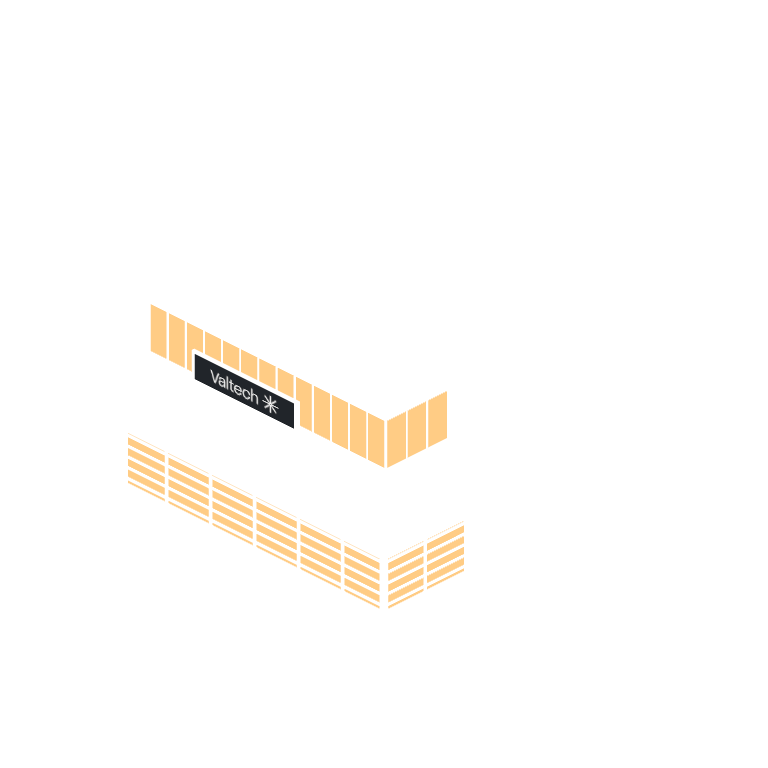
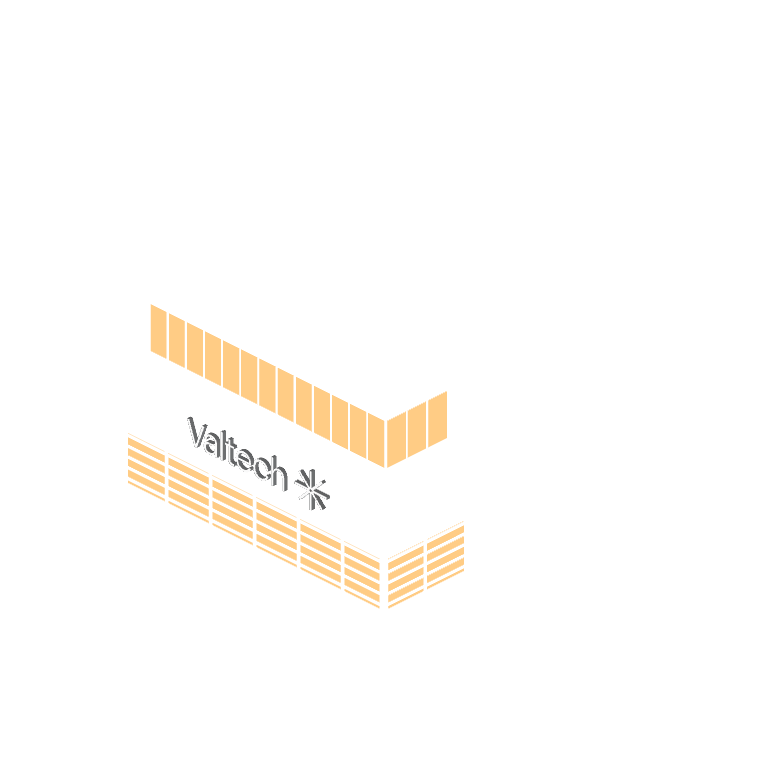
City: Valtech names itself headquarters style, big lit letters on the facade (POR-54)
Replaces the round 1 rooftop board: the logo as white 3D letters on the top
louvre floor of the street side, lit in the night window layer.

Claude-Session: https://claude.ai/code/session_01FAhPhZjp2ccZn8zKvm5zMF

Changed region(s): [[0.25, 0.5312, 0.4375, 0.6562], [0.25, 0.4375, 0.4062, 0.5625]]

diff --git a/lib/city/models/valtechOfficeDetail.ts b/lib/city/models/valtechOfficeDetail.ts
@@ -7,11 +7,12 @@
 //   *-screen-<n>-display  a downscaled case image (public/game/pogicity/Building/landmark/valtech-office-screen-<n>.png)
 //   *-planter-leaf-*, *-planter-crown-*  a low-poly sphere (8 x 5) instead of the factory's 16 x 12: flat leaves at
 //   sprite size do not need more, and the plant drops from about 4,400 to about 1,000 triangles
-//   sign-roof  a rooftop sign on the south parapet (POR-54, 2026-10-23): the Valtech logo in white on a dark board, standing
-//   in front of the glass top floor. The building names itself, so the city needs no floating badge. The face is unlit
-//   (selfLit), so the night window pass draws it as it is: a lit box sign
+//   sign-hq  the name on the building (POR-54, 2026-10-23): the logo as big white 3D letters on the top louvre floor of the
+//   street side, headquarters style. The building names itself, so the city needs no floating badge. The faces are unlit
+//   (selfLit), so the night window pass draws them as they are: lit letters
 // The case images load asynchronously; the entrance lab waits for __labPending to reach 0 before it renders.
 import * as THREE from 'three';
+import { SVGLoader } from 'three/examples/jsm/loaders/SVGLoader.js';
 
 const SCREENS: Record<string, string> = {
   'int-desk-screen-1-display': '/game/pogicity/Building/landmark/valtech-office-screen-1.png',
@@ -185,100 +186,55 @@ function lowPolyEllipsoid(mesh: THREE.Mesh): void {
   old.dispose();
 }
 
-// The rooftop sign: 2.4 x 0.56 wu, its face 0.94 of that; the logo is the city badge's file, trimmed to its ink and drawn white
-const SIGN = { w: 2.4, h: 0.56, d: 0.06, x: 0.3, face: 0.94 };
-const SIGN_BOARD = '#22262b';
+// The name on the building (POR-54, 2026-10-23), headquarters style: the logo as big white 3D letters on the top
+// louvre floor of the street side, standing a little off the slats, like a company HQ. The letters are the city badge's
+// svg (its ink paths) extruded; the faces are unlit (selfLit), so the night window pass draws them as lit letters.
+const HQ = { height: 0.72, depth: 0.08, standoff: 0.05, x: 0.2, y: 4.54 };
+const LOGO_SVG = '/game/pogicity/Building/logos/valtech-office.svg';
 
-function signFaceTexture(): THREE.Texture {
-  const c = document.createElement('canvas');
-  c.width = 1024;
-  c.height = Math.round((1024 * SIGN.h) / SIGN.w);
-  const g = c.getContext('2d')!;
-  g.fillStyle = SIGN_BOARD;
-  g.fillRect(0, 0, c.width, c.height);
-  const t = new THREE.CanvasTexture(c);
-  t.colorSpace = THREE.SRGBColorSpace;
-  t.anisotropy = 8;
-  const lab = globalThis as LabGlobal;
-  lab.__labPending = (lab.__labPending ?? 0) + 1;
-  const done = () => { lab.__labPending = Math.max(0, (lab.__labPending ?? 1) - 1); };
-  const img = new Image();
-  img.onload = () => {
-    // the svg is square with the wordmark in the middle: draw it big, find the ink, then draw only the ink, white
-    const src = document.createElement('canvas');
-    src.width = src.height = 1024;
-    const sg = src.getContext('2d', { willReadFrequently: true })!;
-    sg.drawImage(img, 0, 0, 1024, 1024);
-    const { data } = sg.getImageData(0, 0, 1024, 1024);
-    let x0 = 1024, y0 = 1024, x1 = -1, y1 = -1;
-    for (let y = 0; y < 1024; y++) {
-      for (let x = 0; x < 1024; x++) {
-        const i = (y * 1024 + x) * 4;
-        if (data[i + 3] < 128 || data[i] > 128) continue;   // dark, opaque pixels are the ink
-        if (x < x0) x0 = x;
-        if (x > x1) x1 = x;
-        if (y < y0) y0 = y;
-        if (y > y1) y1 = y;
-      }
-    }
-    if (x1 > x0) {
-      const ink = document.createElement('canvas');
-      ink.width = x1 - x0 + 1;
-      ink.height = y1 - y0 + 1;
-      const ig = ink.getContext('2d')!;
-      ig.drawImage(src, x0, y0, ink.width, ink.height, 0, 0, ink.width, ink.height);
-      // keep the ink's shape, paint it white: the darker a pixel, the more opaque (the svg's white background turns clear)
-      const id = ig.getImageData(0, 0, ink.width, ink.height);
-      for (let i = 0; i < id.data.length; i += 4) {
-        const dark = 255 - Math.min(id.data[i], id.data[i + 1], id.data[i + 2]);
-        id.data[i] = id.data[i + 1] = id.data[i + 2] = 255;
-        id.data[i + 3] = Math.round((dark * id.data[i + 3]) / 255);
-      }
-      ig.putImageData(id, 0, 0);
-      const h = c.height * 0.66, w = (ink.width / ink.height) * h;
-      const scale = Math.min(1, (c.width * 0.86) / w);
-      g.drawImage(ink, (c.width - w * scale) / 2, (c.height - h * scale) / 2, w * scale, h * scale);
-      t.needsUpdate = true;
-    }
-    done();
-  };
-  img.onerror = done;
-  img.src = '/game/pogicity/Building/logos/valtech-office.svg';
-  return t;
-}
-
-function addRoofSign(model: THREE.Object3D, meshes: Record<string, THREE.Mesh>): void {
-  const parapet = meshes['parapet-S'];
-  const parent = parapet?.parent;
-  if (!parapet || !parent) return;
-  // parapet-S is a box scaled to its size: its top and front face give the sign's foot and plane
-  const top = parapet.position.y + parapet.scale.y / 2;
-  const front = parapet.position.z + parapet.scale.z / 2;
+function addHqLetters(model: THREE.Object3D, meshes: Record<string, THREE.Mesh>): void {
+  // the first slat of the top louvre band of the south face: the letters stand off its front
+  const slat = meshes['louvre-S-3-slat-1'];
+  if (!slat) return;
+  model.updateMatrixWorld(true);
+  slat.geometry.computeBoundingBox();
+  const front = slat.geometry.boundingBox!.clone().applyMatrix4(slat.matrixWorld).max.z;
+  // read synchronously, so the letters are in the model when the entrance lab records its meshes
+  const xhr = new XMLHttpRequest();
+  xhr.open('GET', LOGO_SVG, false);
+  xhr.send();
+  const shapes: THREE.Shape[] = [];
+  for (const path of new SVGLoader().parse(xhr.responseText).paths) {
+    const fill = path.userData?.style?.fill;
+    if (!fill || fill === 'none' || /^(white|#fff|#ffffff)$/i.test(fill)) continue;   // the svg's white square
+    shapes.push(...SVGLoader.createShapes(path));
+  }
+  const geo = new THREE.ExtrudeGeometry(shapes, { depth: 1, bevelEnabled: false, curveSegments: 6 });
+  geo.computeBoundingBox();
+  const b = geo.boundingBox!;
+  const s = HQ.height / (b.max.y - b.min.y);
+  geo.translate(-(b.min.x + b.max.x) / 2, -(b.min.y + b.max.y) / 2, -1);
+  geo.scale(s, -s, HQ.depth);   // svg y points down; the flip turns the faces inside out, so both materials are double sided
+  const letters = new THREE.Mesh(geo, [
+    new THREE.MeshBasicMaterial({ color: new THREE.Color(0.95, 0.95, 0.95), side: THREE.DoubleSide }),
+    new THREE.MeshStandardMaterial({ color: '#cfd1d4', roughness: 0.5, side: THREE.DoubleSide }),
+  ]);
+  letters.castShadow = letters.receiveShadow = true;
+  letters.userData.sculptComponent = { id: 'sign-hq-face' };
+  letters.userData.selfLit = true;
   const group = new THREE.Group();
-  group.name = 'sign-roof';
-  group.position.set(SIGN.x, top + SIGN.h / 2, front - SIGN.d / 2);
-  const board = new THREE.Mesh(
-    new THREE.BoxGeometry(SIGN.w, SIGN.h, SIGN.d),
-    new THREE.MeshStandardMaterial({ color: SIGN_BOARD, roughness: 0.8, metalness: 0.1 }),
-  );
-  board.userData.sculptComponent = { id: 'sign-roof-board' };
-  const face = new THREE.Mesh(
-    new THREE.PlaneGeometry(SIGN.w * SIGN.face, SIGN.h * 0.84),
-    new THREE.MeshBasicMaterial({ map: signFaceTexture(), color: new THREE.Color(0.94, 0.94, 0.94) }),
-  );
-  face.position.z = SIGN.d / 2 + 0.002;
-  face.userData.sculptComponent = { id: 'sign-roof-face' };
-  face.userData.selfLit = true;
-  group.add(board, face);
-  parent.add(group);
+  group.name = 'sign-hq';
+  group.position.set(HQ.x, HQ.y, front + HQ.depth + HQ.standoff);
+  group.add(letters);
+  model.add(group);   // model space (the model sits at the origin when it is detailed)
   const nodes: Record<string, THREE.Object3D> | undefined = model.userData.sculptRuntime?.nodes;
-  if (nodes) nodes['sign-roof'] = group;
+  if (nodes) nodes['sign-hq'] = group;
 }
 
 export function applyValtechOfficeDetail(model: THREE.Object3D): void {
   if (typeof document === 'undefined') return;
   const meshes: Record<string, THREE.Mesh> = model.userData.sculptRuntime?.meshes ?? {};
-  addRoofSign(model, meshes);
+  addHqLetters(model, meshes);
   for (const [id, mesh] of Object.entries(meshes)) {
     const s = mesh.scale;   // the factory scales unit primitives to the part's size (wu)
     if (/^side-[NWE]-.*brick/.test(id)) textured(mesh, canvasTexture(brickImage(), s.x / BRICK_TILE_WU.w, s.y / BRICK_TILE_WU.h));
